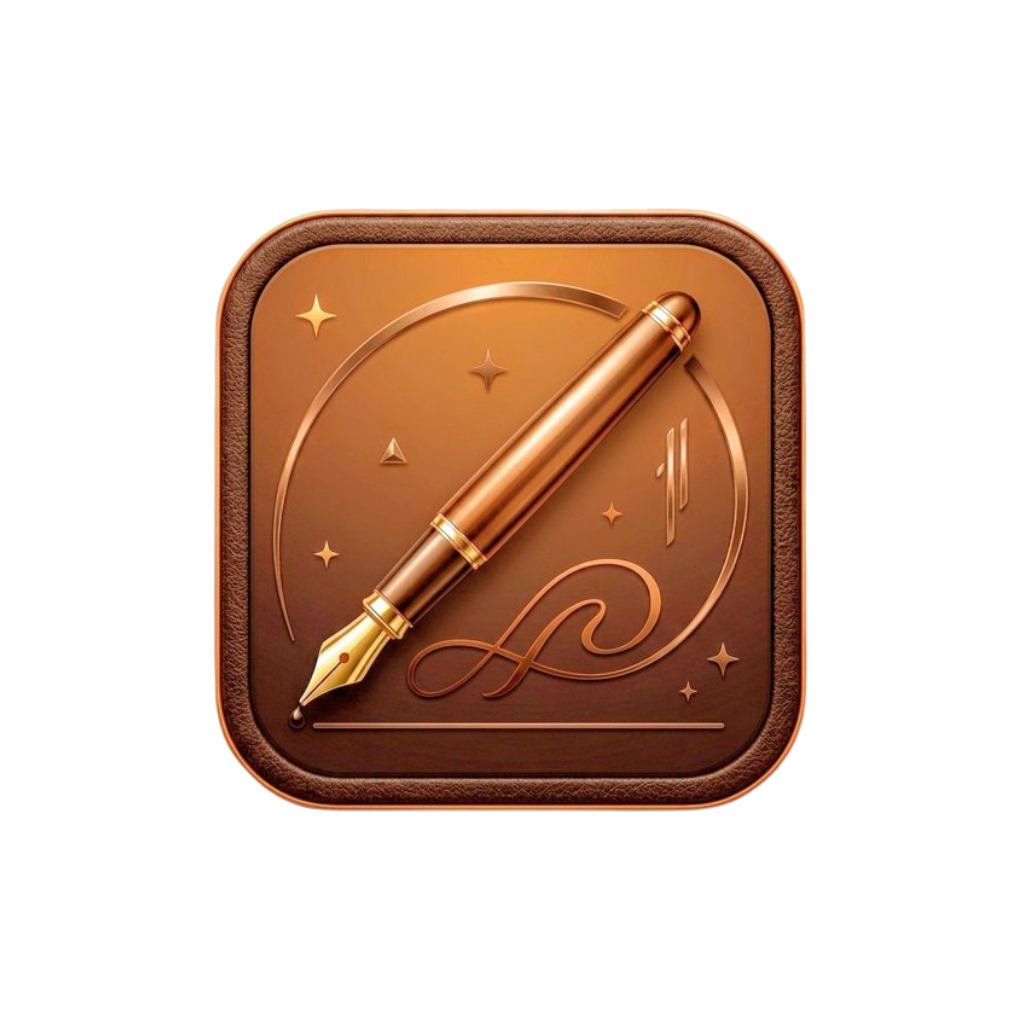
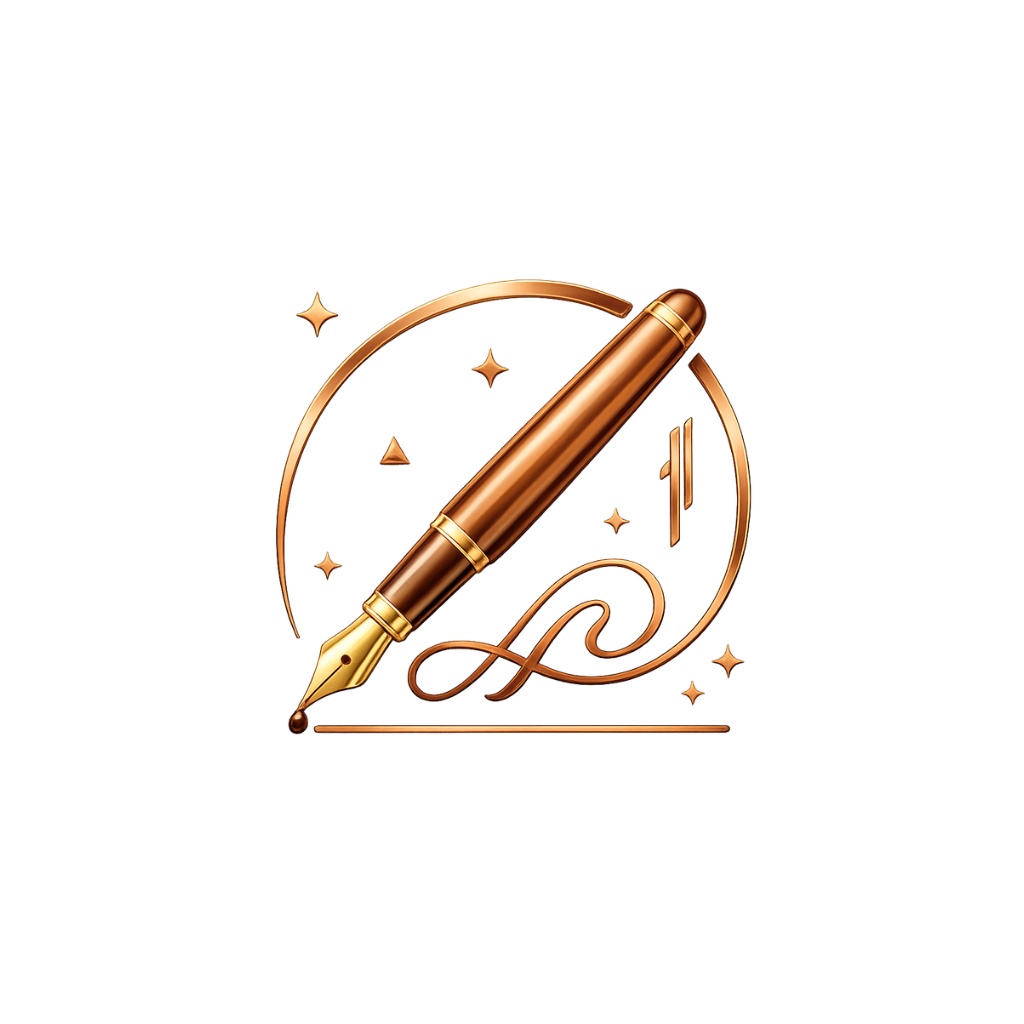
Add splash screen support: integrate expo-splash-screen with custom assets and themes, and update DiaryInput styles for improved UI

diff --git a/src/app/DiaryInput/index.tsx b/src/app/DiaryInput/index.tsx
@@ -220,7 +220,7 @@ export default function DiaryInput() {
   // Animated height for expanded selector
   const expandedHeight = expandAnim.interpolate({
     inputRange: [0, 1],
-    outputRange: [0, 70],
+    outputRange: [0, 56],
   });
 
   if (!entryId) {
@@ -257,16 +257,10 @@ export default function DiaryInput() {
                       onPress={() => handleSelectMood(m.key)}
                       style={styles.moodItem}
                       activeOpacity={0.7}>
-                      <View
-                        style={[
-                          styles.moodCircle,
-                          { borderColor: themeColors.accent + '30' },
-                        ]}>
+                      <View style={[styles.moodCircle, { borderColor: themeColors.accent + '30' }]}>
                         <Entypo name={m.icon as any} size={20} color={m.color} />
                       </View>
-                      <Text style={[styles.moodLabel, { color: themeColors.text }]}>
-                        {m.label}
-                      </Text>
+                      <Text style={[styles.moodLabel, { color: themeColors.text }]}>{m.label}</Text>
                     </TouchableOpacity>
                   ))}
                 </View>
@@ -291,7 +285,8 @@ export default function DiaryInput() {
                         style={[
                           styles.currentMoodChip,
                           { backgroundColor: themeColors.surface },
-                          isLast && isExpanded && { borderColor: themeColors.accent, borderWidth: 1 },
+                          isLast &&
+                            isExpanded && { borderColor: themeColors.accent, borderWidth: 1 },
                         ]}>
                         <Entypo
                           name={meta?.icon as any}
@@ -299,7 +294,11 @@ export default function DiaryInput() {
                           color={meta?.color ?? themeColors.text}
                         />
                         <View style={styles.moodChipText}>
-                          <Text style={[styles.moodChipLabel, { color: meta?.color ?? themeColors.text }]}>
+                          <Text
+                            style={[
+                              styles.moodChipLabel,
+                              { color: meta?.color ?? themeColors.text },
+                            ]}>
                             {meta?.label}
                           </Text>
                           <Text style={[styles.moodChipTime, { color: themeColors.text + '60' }]}>
@@ -326,12 +325,13 @@ export default function DiaryInput() {
                   {isMoodLocked
                     ? `Change mood in ${remainingMinutes} min`
                     : canAddMood
-                    ? 'Tap to change mood'
-                    : 'Daily limit reached'}
+                      ? 'Tap to change mood'
+                      : 'Daily limit reached'}
                 </Text>
 
                 {/* Expandable mood selector */}
-                <Animated.View style={[styles.expandedSelector, { height: expandedHeight, overflow: 'hidden' }]}>
+                <Animated.View
+                  style={[styles.expandedSelector, { height: expandedHeight, overflow: 'hidden' }]}>
                   <View style={styles.moodRow}>
                     {MOODS.map((m) => (
                       <TouchableOpacity
@@ -340,10 +340,7 @@ export default function DiaryInput() {
                         style={styles.moodItem}
                         activeOpacity={0.7}>
                         <View
-                          style={[
-                            styles.moodCircle,
-                            { borderColor: themeColors.accent + '30' },
-                          ]}>
+                          style={[styles.moodCircle, { borderColor: themeColors.accent + '30' }]}>
                           <Entypo name={m.icon as any} size={20} color={m.color} />
                         </View>
                         <Text style={[styles.moodLabel, { color: themeColors.text }]}>
@@ -421,28 +418,29 @@ const styles = StyleSheet.create({
   // Mood section
   moodSection: {
     paddingHorizontal: 16,
-    paddingVertical: 12,
+    paddingTop: 6,
+    paddingBottom: 6,
     borderBottomWidth: 1,
   },
   moodPrompt: {
     fontFamily: 'PoppinsBold',
-    fontSize: 13,
-    marginBottom: 10,
+    fontSize: 12,
+    marginBottom: 4,
   },
   moodRow: {
     flexDirection: 'row',
     justifyContent: 'space-between',
     alignItems: 'flex-start',
-    paddingTop: 8,
+    paddingTop: 2,
   },
   moodItem: {
     alignItems: 'center',
     flex: 1,
   },
   moodCircle: {
-    width: 38,
-    height: 38,
-    borderRadius: 19,
+    width: 30,
+    height: 30,
+    borderRadius: 15,
     alignItems: 'center',
     justifyContent: 'center',
     borderWidth: 1,
@@ -450,50 +448,51 @@ const styles = StyleSheet.create({
   },
   moodLabel: {
     fontFamily: 'RobotoMedium',
-    fontSize: 9,
-    marginTop: 4,
+    fontSize: 8,
+    marginTop: 2,
     textAlign: 'center',
   },
   // Current mood display
   currentMoodsRow: {
     flexDirection: 'row',
     flexWrap: 'wrap',
-    gap: 8,
+    gap: 6,
   },
   currentMoodChip: {
     flexDirection: 'row',
     alignItems: 'center',
-    gap: 8,
-    paddingHorizontal: 12,
-    paddingVertical: 8,
-    borderRadius: 20,
+    gap: 6,
+    paddingHorizontal: 10,
+    paddingVertical: 5,
+    borderRadius: 16,
   },
   moodChipText: {
-    gap: 1,
+    gap: 0,
   },
   moodChipLabel: {
     fontFamily: 'RobotoMedium',
-    fontSize: 12,
+    fontSize: 11,
   },
   moodChipTime: {
     fontFamily: 'RobotoRegular',
-    fontSize: 10,
+    fontSize: 9,
   },
   statusText: {
     fontFamily: 'RobotoRegular',
-    fontSize: 10,
-    marginTop: 8,
+    fontSize: 9,
+    marginTop: 4,
   },
   expandedSelector: {
-    marginTop: 8,
+    marginTop: 4,
   },
   // Warning banner
   warningBanner: {
     flexDirection: 'row',
     alignItems: 'center',
     gap: 6,
-    marginTop: 10,
-    padding: 8,
+    marginTop: 6,
+    paddingHorizontal: 8,
+    paddingVertical: 5,
     borderRadius: 8,
   },
   warningText: {

diff --git a/src/components/Splash.tsx b/src/components/Splash.tsx
@@ -1,8 +1,10 @@
 import React, { useEffect, useRef } from 'react';
-import { View, Text, StyleSheet, Animated, Dimensions } from 'react-native';
+import { View, Text, StyleSheet, Animated, Dimensions, Image } from 'react-native';
 import { LinearGradient } from 'expo-linear-gradient';
 import { Ionicons } from '@expo/vector-icons';
 import type { ThemeKey } from '~/store/slices/themeSlice';
+
+const SPLASH_ICON = require('../../assets/splash_screen_icon.png');
 
 const { width, height } = Dimensions.get('window');
 
@@ -18,6 +20,30 @@ const SPLASH_THEMES: Record<
     iconGradient: [string, string];
   }
 > = {
+  blossom: {
+    gradient: ['#FFE4F0', '#FBCFE8', '#F472B6', '#EC4899'],
+    accent: '#FCE7F3',
+    orbColor: '#F472B6',
+    starColor: '#FFFFFF',
+    icon: 'flower',
+    iconGradient: ['#EC4899', '#DB2777'],
+  },
+  rose: {
+    gradient: ['#FFE4E6', '#FECDD3', '#FB7185', '#E11D48'],
+    accent: '#FFE4E6',
+    orbColor: '#FB7185',
+    starColor: '#FFFFFF',
+    icon: 'rose',
+    iconGradient: ['#E11D48', '#BE123C'],
+  },
+  lilac: {
+    gradient: ['#EDE9FE', '#DDD6FE', '#A78BFA', '#8B5CF6'],
+    accent: '#EDE9FE',
+    orbColor: '#A78BFA',
+    starColor: '#FFFFFF',
+    icon: 'heart',
+    iconGradient: ['#8B5CF6', '#7C3AED'],
+  },
   cozy: {
     gradient: ['#1A0A00', '#4A1A00', '#8B3A00', '#B45309'],
     accent: '#F59E0B',
@@ -26,7 +52,7 @@ const SPLASH_THEMES: Record<
     icon: 'cafe',
     iconGradient: ['#D97706', '#92400E'],
   },
-  clean: {
+  night: {
     gradient: ['#020B2A', '#061B6E', '#1D4ED8', '#3B82F6'],
     accent: '#93C5FD',
     orbColor: '#1D4ED8',
@@ -133,7 +159,6 @@ export default function Splash({ fontsLoaded = false, themeKey = 'cozy' }: Splas
       start={{ x: 0.15, y: 0 }}
       end={{ x: 0.85, y: 1 }}
       style={styles.container}>
-
       {/* Decorative orbs */}
       <View style={[styles.orb1, { backgroundColor: palette.orbColor }]} />
       <View style={[styles.orb2, { backgroundColor: palette.orbColor }]} />
@@ -159,42 +184,51 @@ export default function Splash({ fontsLoaded = false, themeKey = 'cozy' }: Splas
       {/* Main content */}
       <Animated.View
         style={[styles.content, { opacity: fadeAnim, transform: [{ scale: scaleAnim }] }]}>
-
         {/* Icon badge */}
         <View style={styles.iconWrap}>
-          <LinearGradient colors={palette.iconGradient} style={[styles.iconGradient, { shadowColor: palette.accent }]}>
-            <Ionicons name={palette.icon} size={36} color="#FFFFFF" />
-          </LinearGradient>
+          <Image source={SPLASH_ICON} style={styles.splashIcon} resizeMode="contain" />
           <View style={[styles.iconGlow, { backgroundColor: palette.accent }]} />
         </View>
 
         {/* Title */}
-        <Text
-          style={[
-            styles.title,
-            fontsLoaded ? styles.titleFontLoaded : styles.titleFallback,
-          ]}>
+        <Text style={[styles.title, fontsLoaded ? styles.titleFontLoaded : styles.titleFallback]}>
           Dream Diary
         </Text>
 
         {/* Divider */}
         <View style={styles.dividerRow}>
           <View style={[styles.dividerLine, { backgroundColor: palette.accent }]} />
-          <Ionicons name="sparkles" size={12} color={palette.accent} style={{ marginHorizontal: 8 }} />
+          <Ionicons
+            name="sparkles"
+            size={12}
+            color={palette.accent}
+            style={{ marginHorizontal: 8 }}
+          />
           <View style={[styles.dividerLine, { backgroundColor: palette.accent }]} />
         </View>
 
         {/* Tagline */}
-        <Text style={[styles.tagline, { color: palette.accent }, fontsLoaded && styles.taglineFontLoaded]}>
+        <Text
+          style={[
+            styles.tagline,
+            { color: palette.accent },
+            fontsLoaded && styles.taglineFontLoaded,
+          ]}>
           Capture your dreams &amp; thoughts
         </Text>
       </Animated.View>
 
       {/* Loading dots */}
       <View style={styles.dotsRow}>
-        <Animated.View style={[styles.dot, { backgroundColor: palette.accent, opacity: dotAnim1 }]} />
-        <Animated.View style={[styles.dot, { backgroundColor: palette.accent, opacity: dotAnim2 }]} />
-        <Animated.View style={[styles.dot, { backgroundColor: palette.accent, opacity: dotAnim3 }]} />
+        <Animated.View
+          style={[styles.dot, { backgroundColor: palette.accent, opacity: dotAnim1 }]}
+        />
+        <Animated.View
+          style={[styles.dot, { backgroundColor: palette.accent, opacity: dotAnim2 }]}
+        />
+        <Animated.View
+          style={[styles.dot, { backgroundColor: palette.accent, opacity: dotAnim3 }]}
+        />
       </View>
     </LinearGradient>
   );
@@ -248,16 +282,9 @@ const styles = StyleSheet.create({
     alignItems: 'center',
     justifyContent: 'center',
   },
-  iconGradient: {
-    width: 88,
-    height: 88,
-    borderRadius: 44,
-    alignItems: 'center',
-    justifyContent: 'center',
-    shadowOffset: { width: 0, height: 8 },
-    shadowOpacity: 0.55,
-    shadowRadius: 20,
-    elevation: 14,
+  splashIcon: {
+    width: 110,
+    height: 110,
   },
   iconGlow: {
     position: 'absolute',

diff --git a/src/store/slices/themeSlice.ts b/src/store/slices/themeSlice.ts
@@ -1,6 +1,15 @@
 import { createSlice, PayloadAction } from '@reduxjs/toolkit';
 
-export type ThemeKey = 'cozy' | 'night' | 'dreamy' | 'nature' | 'warm' | 'dark';
+export type ThemeKey =
+  | 'blossom'
+  | 'rose'
+  | 'lilac'
+  | 'cozy'
+  | 'night'
+  | 'dreamy'
+  | 'nature'
+  | 'warm'
+  | 'dark';
 
 export interface ThemeColors {
   background: string;
@@ -12,6 +21,30 @@ export interface ThemeColors {
 }
 
 export const THEMES: Record<ThemeKey, ThemeColors> = {
+  blossom: {
+    background: '#FFF0F6',
+    text: '#5C2A3A',
+    accent: '#EC4899',
+    surface: '#FCE7F3',
+    error: '#F87171',
+    headerGradient: ['#FBCFE8', '#F9A8D4', '#F472B6'],
+  },
+  rose: {
+    background: '#FFF1F2',
+    text: '#6B2737',
+    accent: '#E11D48',
+    surface: '#FFE4E6',
+    error: '#F87171',
+    headerGradient: ['#FECDD3', '#FDA4AF', '#FB7185'],
+  },
+  lilac: {
+    background: '#F5F3FF',
+    text: '#4C1D95',
+    accent: '#8B5CF6',
+    surface: '#EDE9FE',
+    error: '#F87171',
+    headerGradient: ['#DDD6FE', '#C4B5FD', '#A78BFA'],
+  },
   cozy: {
     background: '#2C1810',
     text: '#F5E6D3',
@@ -100,6 +133,7 @@ export const { setTheme, setBackgroundImage, setBackgroundOpacity, clearBackgrou
 export const selectCurrentTheme = (state: { theme: ThemeState }) => state.theme.currentTheme;
 export const selectThemeColors = (state: { theme: ThemeState }) => THEMES[state.theme.currentTheme];
 export const selectBackgroundImage = (state: { theme: ThemeState }) => state.theme.backgroundImage;
-export const selectBackgroundOpacity = (state: { theme: ThemeState }) => state.theme.backgroundOpacity;
+export const selectBackgroundOpacity = (state: { theme: ThemeState }) =>
+  state.theme.backgroundOpacity;
 
 export default themeSlice.reducer;

diff --git a/src/app/Themes/index.tsx b/src/app/Themes/index.tsx
@@ -40,6 +40,9 @@ import {
 } from '~/store/slices/settingsSlice';
 
 const THEME_OPTIONS: { key: ThemeKey; name: string; emoji: string }[] = [
+  { key: 'blossom', name: 'Blossom', emoji: '🌸' },
+  { key: 'rose', name: 'Rose', emoji: '🌹' },
+  { key: 'lilac', name: 'Lilac', emoji: '💜' },
   { key: 'cozy', name: 'Cozy', emoji: '🍂' },
   { key: 'night', name: 'Night', emoji: '🌃' },
   { key: 'dreamy', name: 'Dreamy', emoji: '🌙' },
